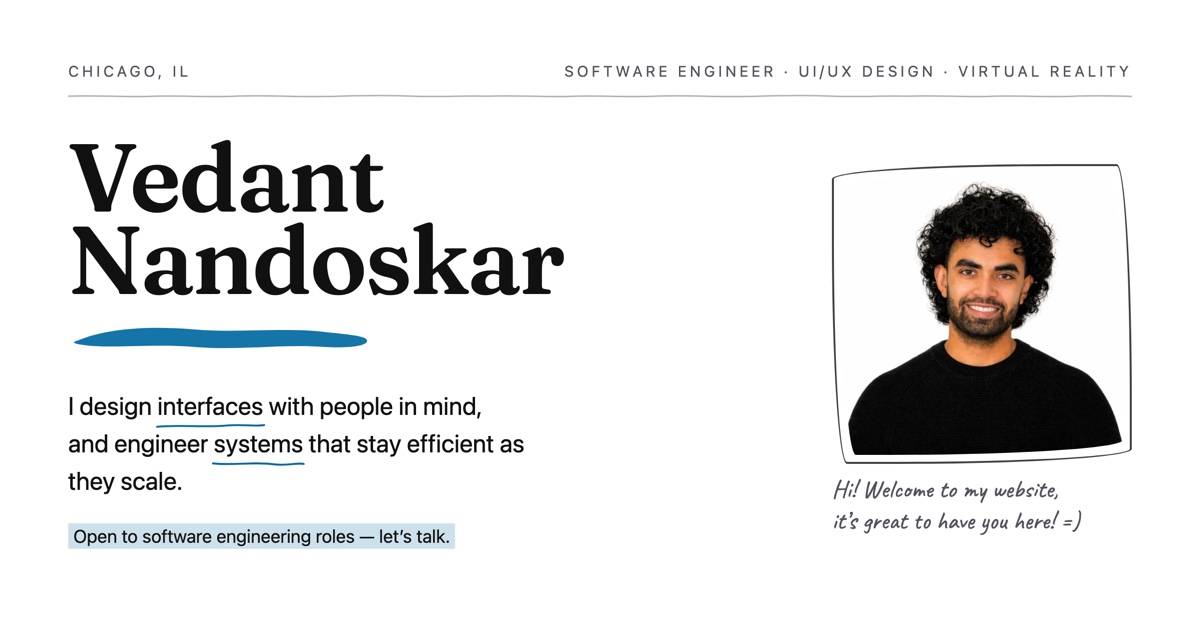
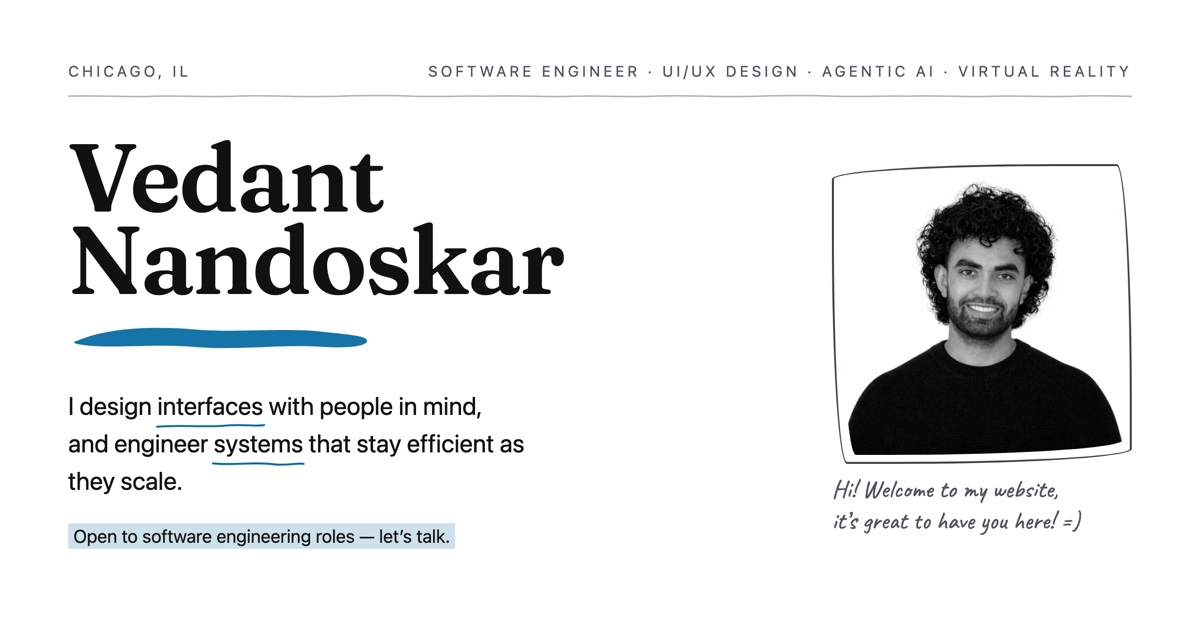
chore(v4): refresh the OG card — Agentic AI, black-and-white portrait
The share card was out of sync with two recent changes: the role line was
missing "Agentic AI" (added when the hero picked up its fourth line), and the
portrait was still in colour after the hero moved to a permanent
black-and-white treatment. Regenerated public/og-image.jpg from the updated
tools/og-card.html via the documented headless-Chrome recipe.

Changed region(s): [[0.7708, 0.3619, 0.8633, 0.6032], [0.3392, 0.0905, 0.7708, 0.1206]]

diff --git a/vedant-portfolio-v2/tools/og-card.html b/vedant-portfolio-v2/tools/og-card.html
@@ -61,7 +61,11 @@
       .frame { border: 2px solid rgba(17,17,17,0.8); padding: 7px;
                border-radius: 225px 15px 235px 15px / 15px 235px 15px 225px;
                overflow: hidden; }
-      .frame img { display: block; width: 100%; height: auto; border-radius: inherit; }
+      .frame img {
+        display: block; width: 100%; height: auto; border-radius: inherit;
+        /* Matches the hero, which sits permanently black-and-white (no hover reveal). */
+        filter: grayscale(1);
+      }
       .cap { font-family: "Caveat Variable", cursive; font-size: 25px; color: #52525b;
              margin-top: 10px; line-height: 1.25; }
     </style>
@@ -70,7 +74,7 @@
     <div class="card">
       <div class="meta">
         <span>Chicago, IL</span>
-        <span>Software Engineer · UI/UX Design · Virtual Reality</span>
+        <span>Software Engineer · UI/UX Design · Agentic AI · Virtual Reality</span>
       </div>
       <div class="rule"></div>
 
